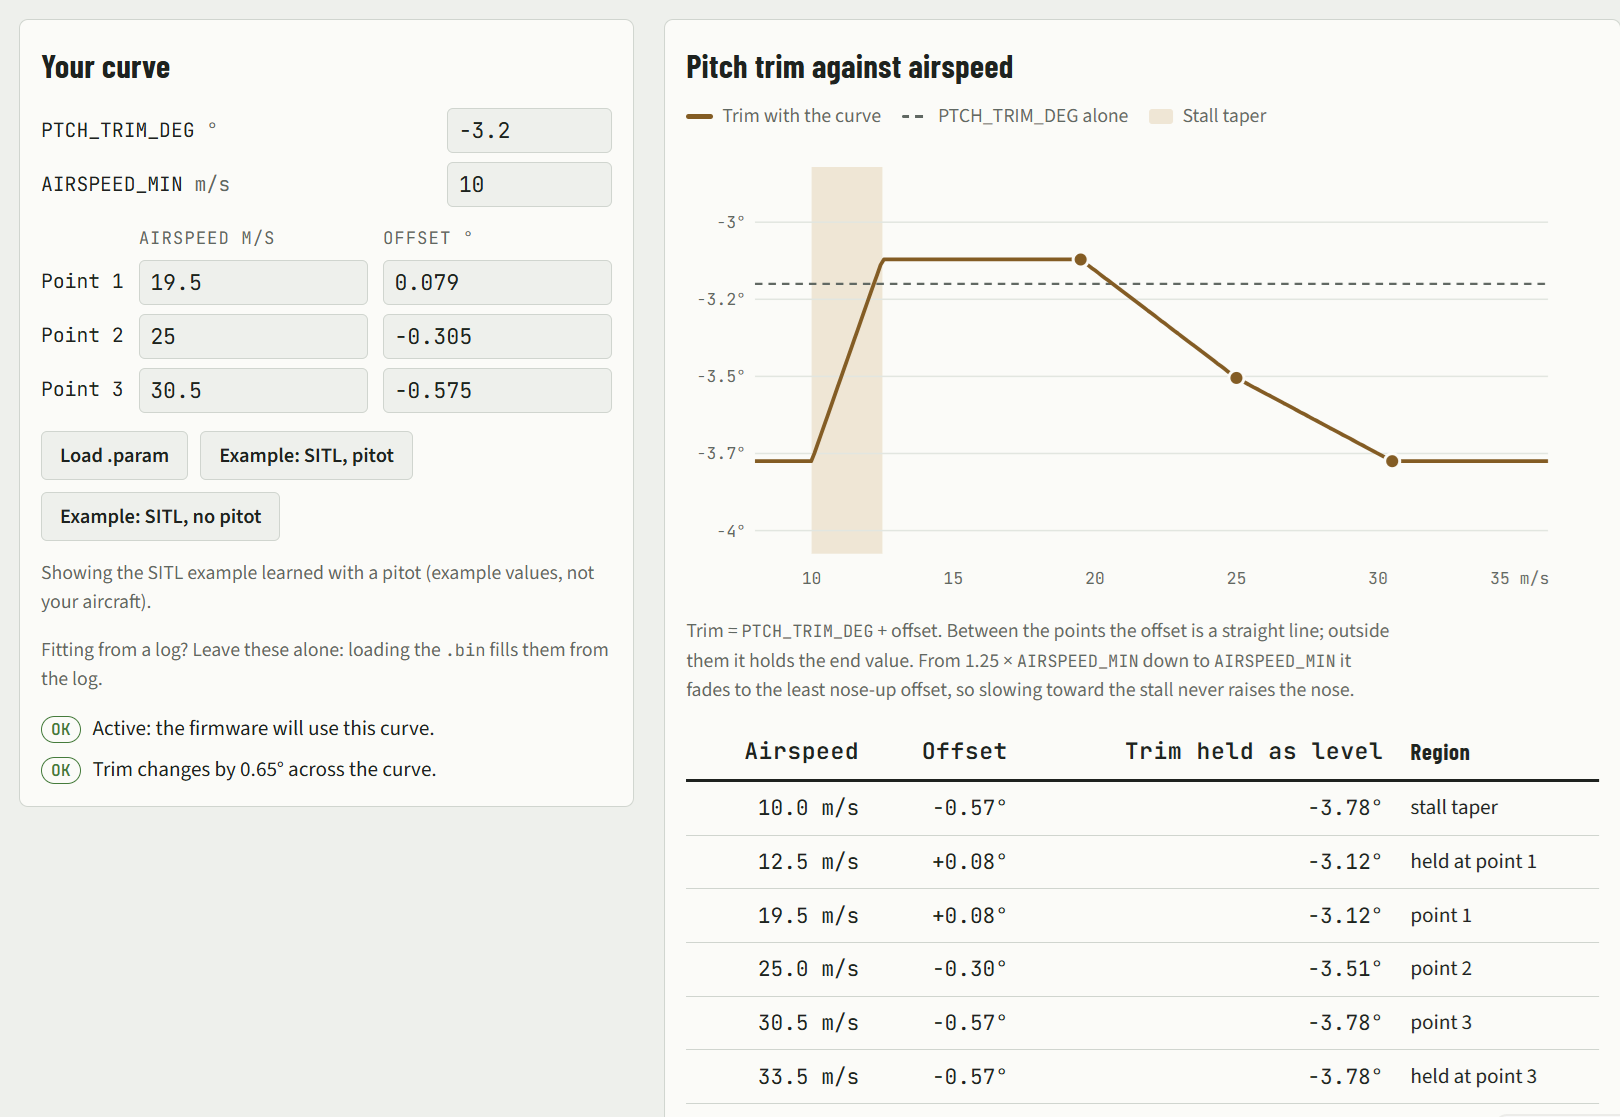
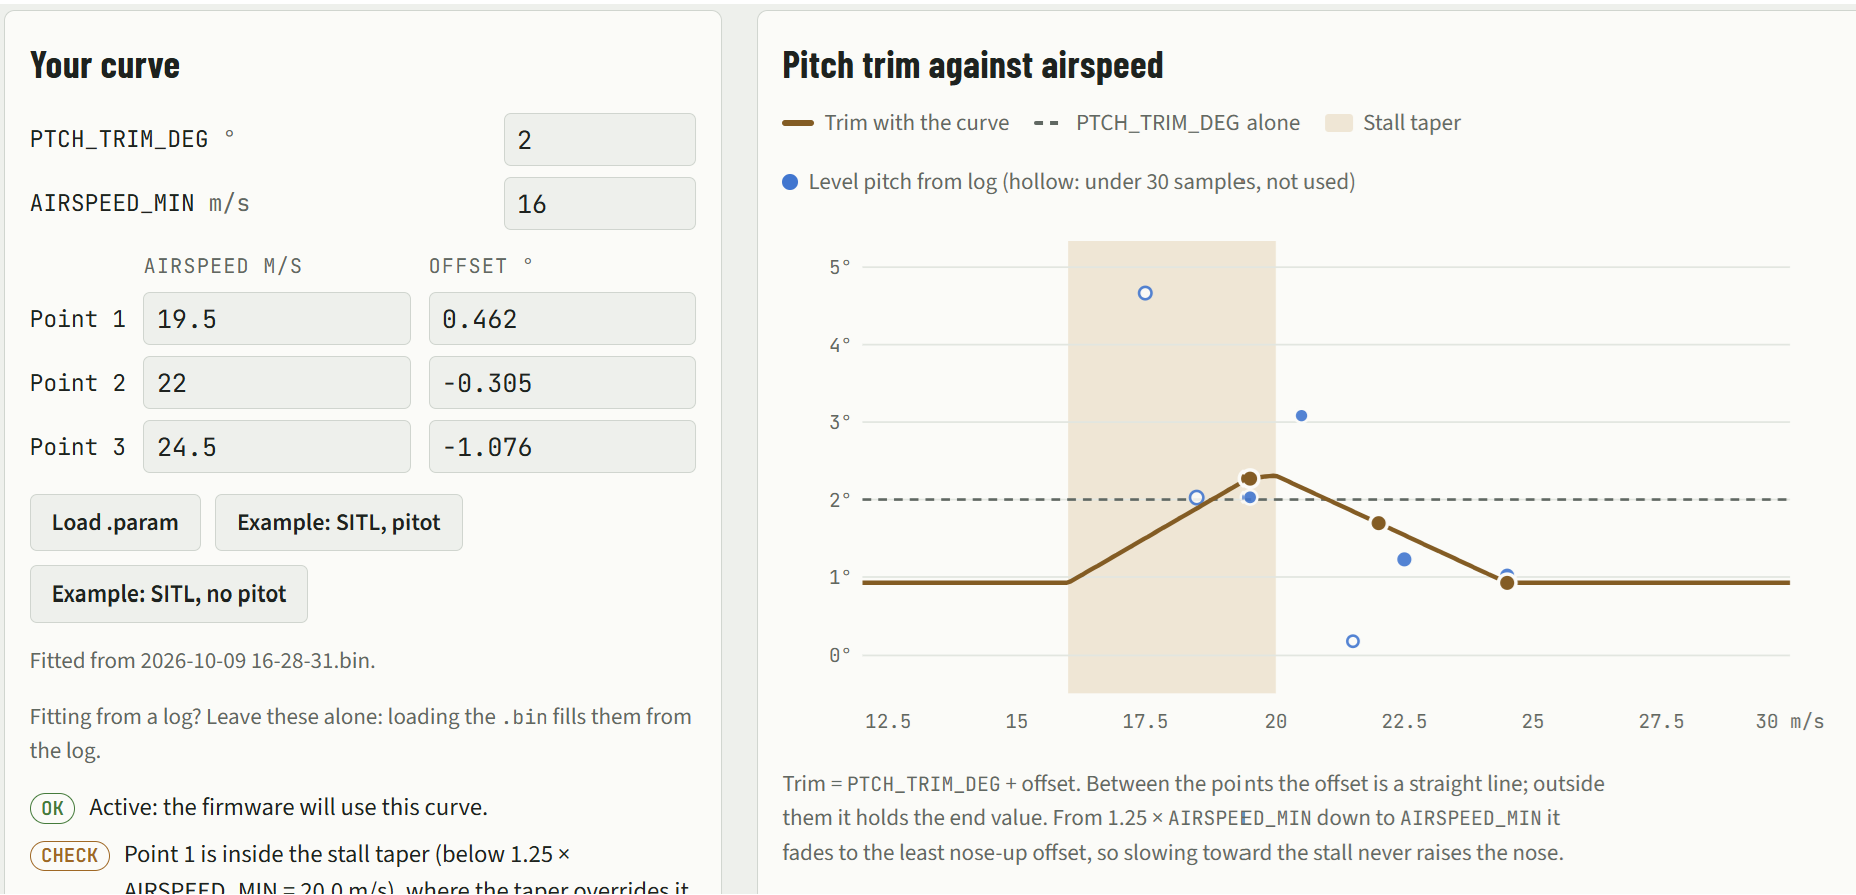
README_CUSTOM: replace the adaptive pitch trim sample with a log-fitted curve
The sample image is now a curve fitted from a real flight log (with the
log's level-pitch points) instead of the SITL pitot example. Caption
rewritten to match: still marked sample only, explains the blue dots, the
16-20 m/s stall taper and the CHECK on point 1.

Claude-Session: https://claude.ai/code/session_01CBMkKmqfBiyEytbvMpqrxY

diff --git a/README_CUSTOM.md b/README_CUSTOM.md
@@ -1081,15 +1081,19 @@ assisted flight. It changes smoothly (about a 1 s time constant).
 fades to the *least nose-up* of the three offsets, so slowing towards the
 stall never raises the nose.
 
-![Adaptive Pitch Trim Explorer showing a sample curve: PTCH_TRIM_DEG -3.2, AIRSPEED_MIN 10 and offsets +0.08, -0.31 and -0.58 at 19.5, 25 and 30.5 m/s](docs/images/adaptive-pitch-trim-example.png)
+![Adaptive Pitch Trim Explorer showing a sample curve fitted from a flight log: PTCH_TRIM_DEG 2, AIRSPEED_MIN 16 and offsets +0.46, -0.31 and -1.08 at 19.5, 22 and 24.5 m/s, with the log's level-pitch points in blue](docs/images/adaptive-pitch-trim-example.png)
 
-*Sample only: these numbers are not a recommendation and will not suit
-your aircraft. The curve was learned in SITL on the simulated plane with a
-pitot (`PTCH_TRIM_DEG` −3.2, `AIRSPEED_MIN` 10). The solid line is the trim
-the firmware holds as level at each airspeed; the dashed line is
-`PTCH_TRIM_DEG` alone. Between the points the trim follows a straight line,
-above 30.5 m/s it stays at point 3, and in the shaded band (10–12.5 m/s) the
-stall taper drops it to the least nose-up offset (−0.57°). Your own curve
+*Sample only: these numbers are one aircraft's and are not a recommendation;
+they will not suit yours. The curve was fitted from a flight log
+(`PTCH_TRIM_DEG` 2, `AIRSPEED_MIN` 16). The blue dots are the pitch that log
+flew level at each airspeed; hollow dots had under 30 samples and were left
+out of the fit. The solid line is the trim the firmware holds as level; the
+dashed line is `PTCH_TRIM_DEG` alone. Between the points the trim follows a
+straight line, and above 24.5 m/s it stays at point 3. In the shaded band
+(16–20 m/s, `AIRSPEED_MIN` to 1.25 × `AIRSPEED_MIN`) the stall taper fades it
+to the least nose-up offset (−1.08°), so the nose drops slightly as the plane
+slows instead of rising. Point 1 (19.5 m/s) sits inside that band, so the
+taper overrides it there; the explorer flags this as CHECK. Your own curve
 comes from a learn flight, or from a log. To see it, load your `.param` or
 `.bin` into the
 [Adaptive Pitch Trim Explorer](https://erwinquilloy.github.io/ardupilot-tools/pitch-trim.html).*
